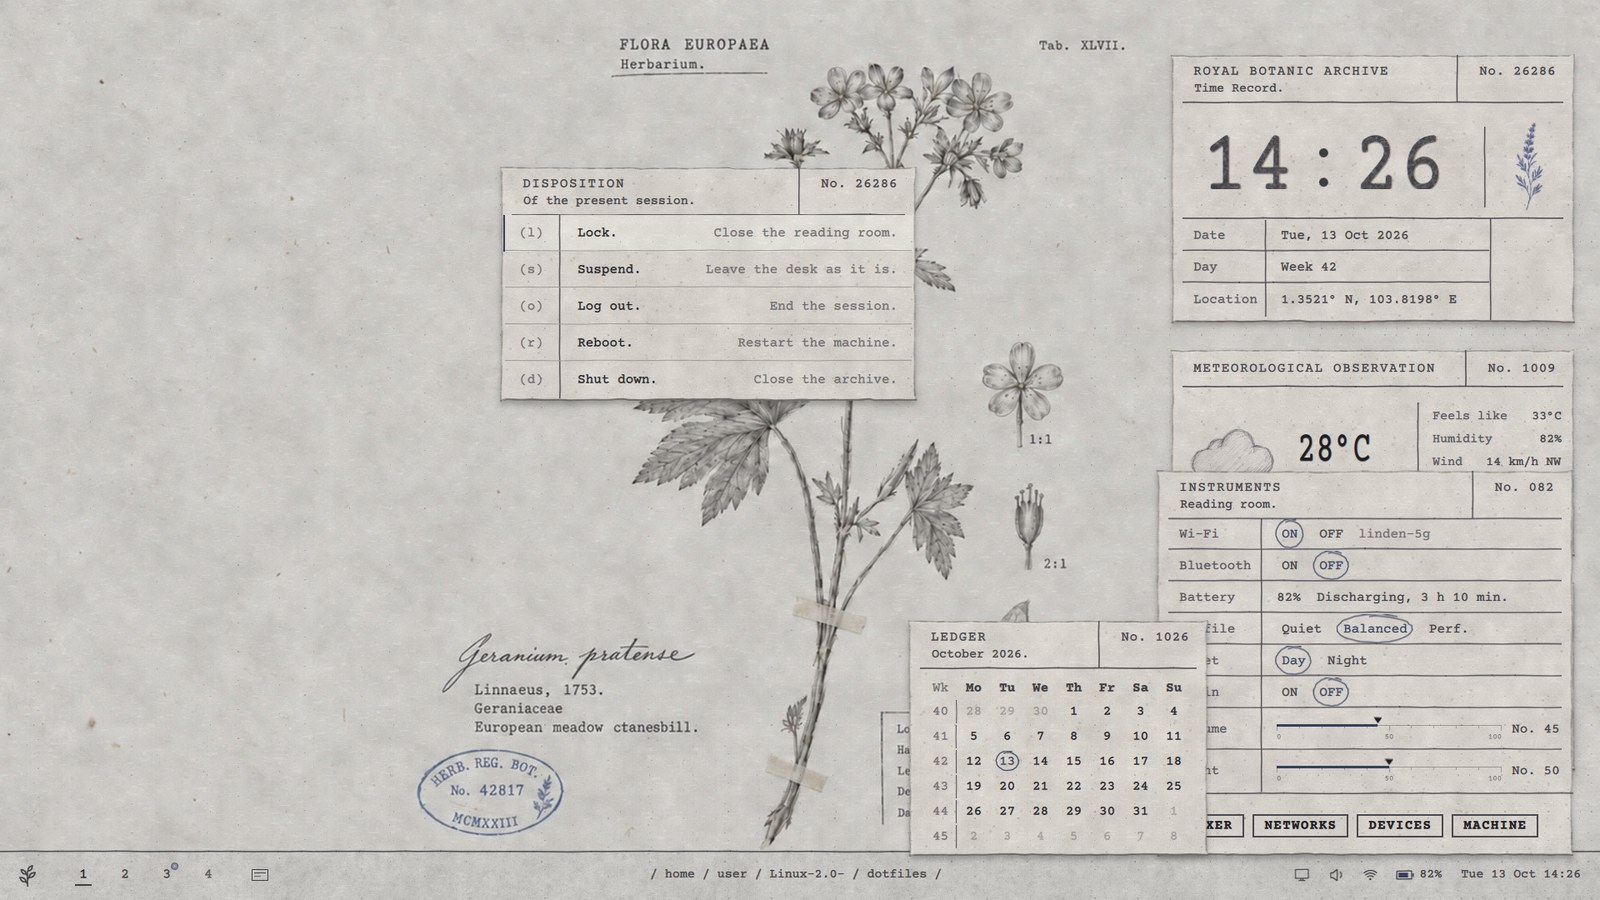
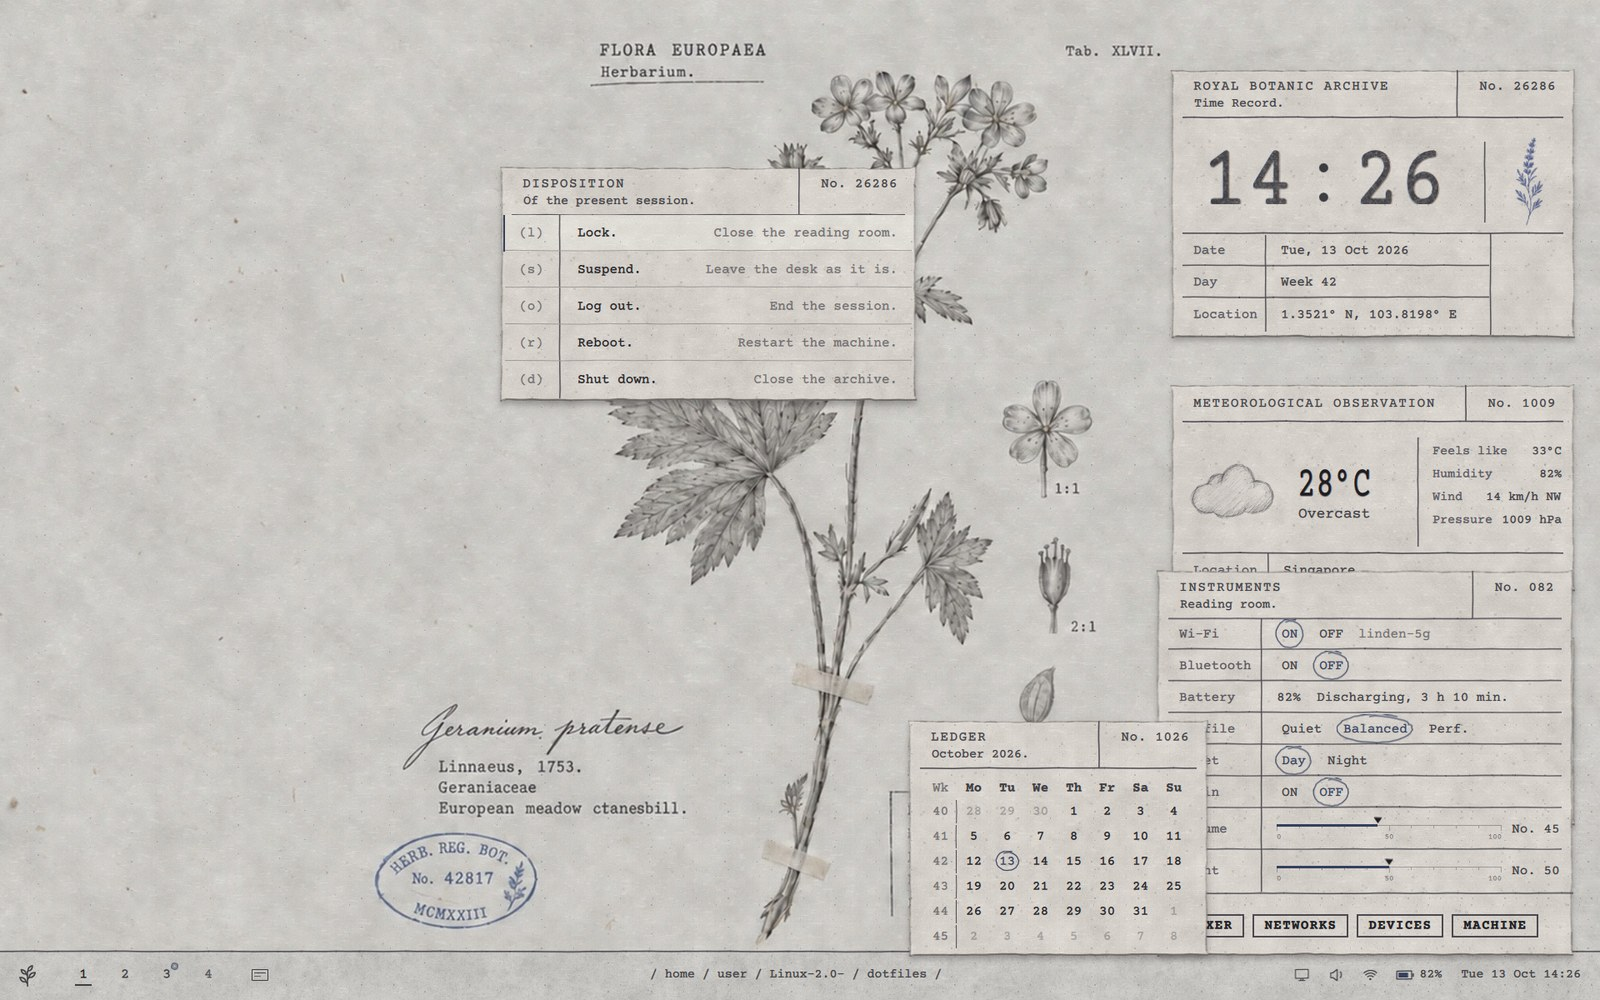
Desk terminal: a smaller 16:9 card, clear of the plate's leaf
The desk terminal is now 31.25 % of the screen wide and 16:9 including its
title bar (600 x 337 at 1920), ending about 60 px before the big leaf's tip
on the G14's 16:10 panel. It opens with its own 10 pt Courier Prime so the
whole fastfetch card still fits; other terminals keep 14.5 pt. archive-desk
now opens it at login too, so the font and shape live in one place.

Claude-Session: https://claude.ai/code/session_01Gt7tu4gfoEos1TAjQ1a4QF

diff --git a/docs/design-map.md b/docs/design-map.md
@@ -65,7 +65,7 @@ the plate is the one place that should match the mockup.
 
 | Spec | How |
 | --- | --- |
-| Left desk ~35 %, centre ~35 %, right ~25 %, footer 40 px | Desk terminal rule (`archive/rules.lua`: 35.7 % × 48 %, at 1.9 % / 16.4 % of the screen), plate box 0.375–0.665, `Theme.recordWidth` 480, `Theme.barHeight` 40 |
+| Left desk ~35 %, centre ~35 %, right ~25 %, footer 40 px | Desk terminal rule (`archive/rules.lua`: 31.25 % of the screen wide and 16:9 with its title bar, at 1.9 % / 16.4 %; clear of the plate's big leaf; its own 10 pt type so the fastfetch card fits), plate box 0.375–0.665, `Theme.recordWidth` 480, `Theme.barHeight` 40 |
 | The desk stays as in the reference, and comes back | Record cards are `DeskCard`s (`components/DeskCard.qml`): drag anywhere, right-click to put away; `services/Desk.qml` remembers which are away. `archive-desk` (bar button after the workspaces, `Super + D`) calls `qs ipc call desk restore` and brings the desk terminal to the current workspace at its place, or reopens it |
 | 8 px grid; margins 32, gaps 24, padding 16, header 10/14, rows 30 | `Theme.qml` |
 | Window gaps 8 between, 24 to the edge | `gaps_in = 4` (Hyprland doubles it between windows), `gaps_out = 24` |
